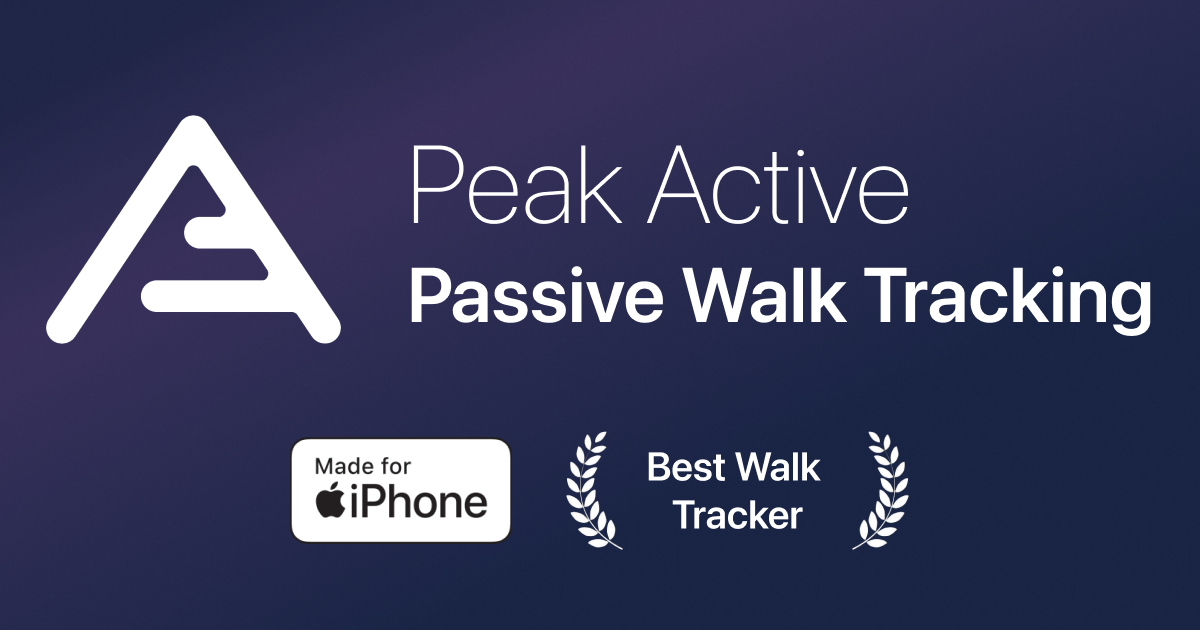
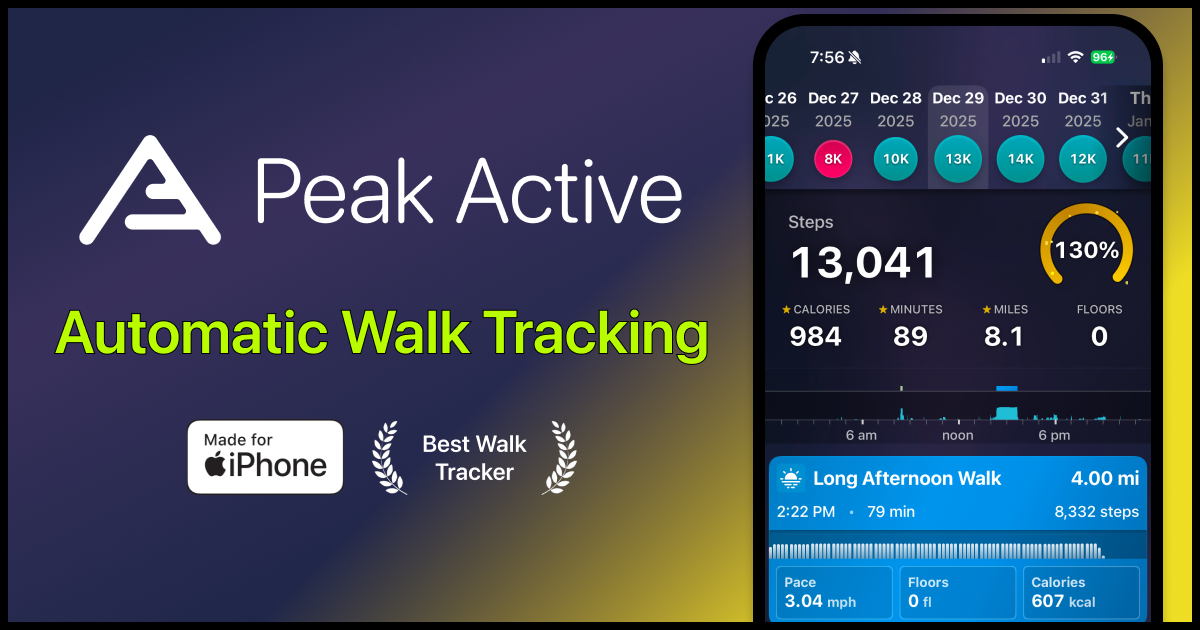
fixing og image

diff --git a/middleware.js b/middleware.js
@@ -289,7 +289,7 @@ const PATTERN_COUNT = Object.keys(PATTERNS).length;
 
 // Match all routes that need meta tags
 export const config = {
-  matcher: ['/', '/projects/:path*', '/design_system', '/agentic_ai_patterns', '/agentic_ai_patterns/:path*']
+  matcher: ['/', '/peakactive', '/projects/:path*', '/design_system', '/agentic_ai_patterns', '/agentic_ai_patterns/:path*']
 };
 
 export default function middleware(request) {
@@ -323,6 +323,16 @@ function getMetaForRoute(pathname) {
       description: 'Principal Product Designer specializing in AI/ML products, agentic applications, and trust-building UX patterns. 15+ years of experience designing enterprise SaaS at Salesforce, New Relic, and Tealium.',
       image: avatarImage,
       url: baseUrl
+    };
+  }
+
+  // Peak Active page
+  if (pathname === '/peakactive') {
+    return {
+      title: 'Peak Active - Passive Walk Tracker for iPhone',
+      description: 'Track your walks automatically without hitting start or stop. Peak Active uses Apple HealthKit to detect your walks, showing steps, distance, calories, and duration.',
+      image: `${baseUrl}/projects/peakactive/og_image.png`,
+      url: `${baseUrl}/peakactive`
     };
   }
 
